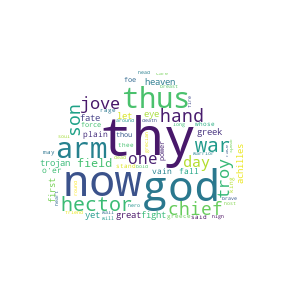
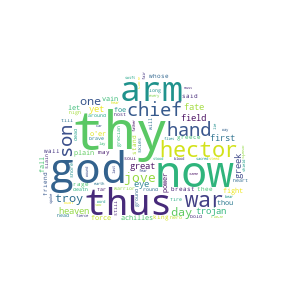
adds numbers cloud

Changed region(s): [[0.1246, 0.2509, 0.872, 0.7805]]

diff --git a/word_cloud.py b/word_cloud.py
@@ -10,6 +10,9 @@ title1 = "The Iliad"
 text2 = open("odyssey.txt", "r").read().lower()
 title2 = "The Odyssey"
 
+text3 = "ten, ten, ten, ten, ten, ten, ten, ten, ten, ten, nine, nine, nine, nine, nine, nine, nine, nine, nine, eight, eight, eight, eight, eight, eight, eight, eight, seven, seven, seven, seven, seven, seven, seven, six, six, six, six, six, six, five, five, five, five, five, four, four, four, four, three, three, three, two, two, one"
+title3 = "Numbers"
+
 def create_word_cloud(string, title):
    maskArray = np.array(Image.open("cloud.png"))
    cloud = WordCloud(background_color = "white", max_words = 200, mask = maskArray, stopwords = set(STOPWORDS))
@@ -18,3 +21,5 @@ def create_word_cloud(string, title):
    cloud.to_file("%swordCloud.png" % clean_title)
 create_word_cloud(text1, title1)
 create_word_cloud(text2, title2)
+create_word_cloud(text3, title3)
+
